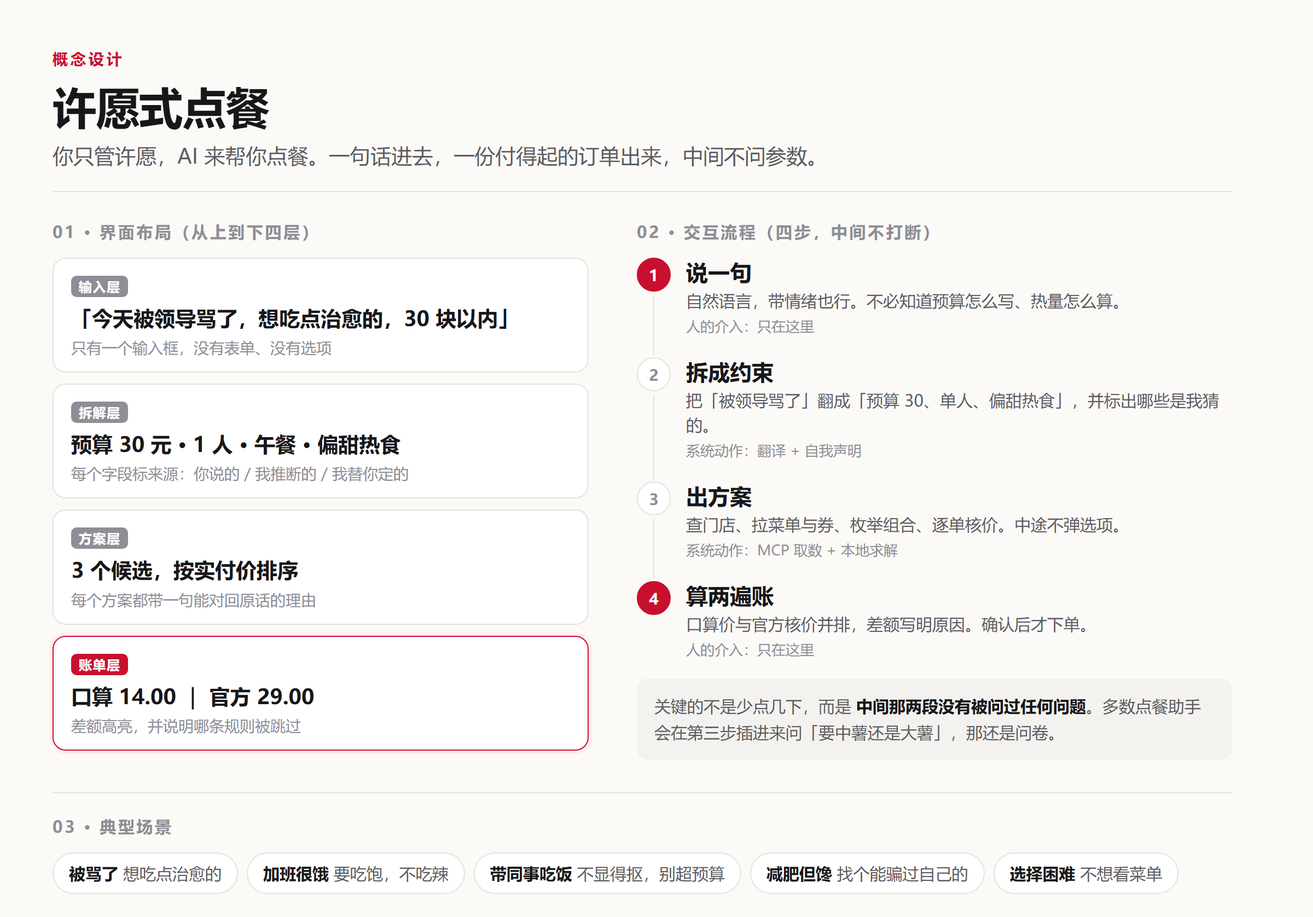
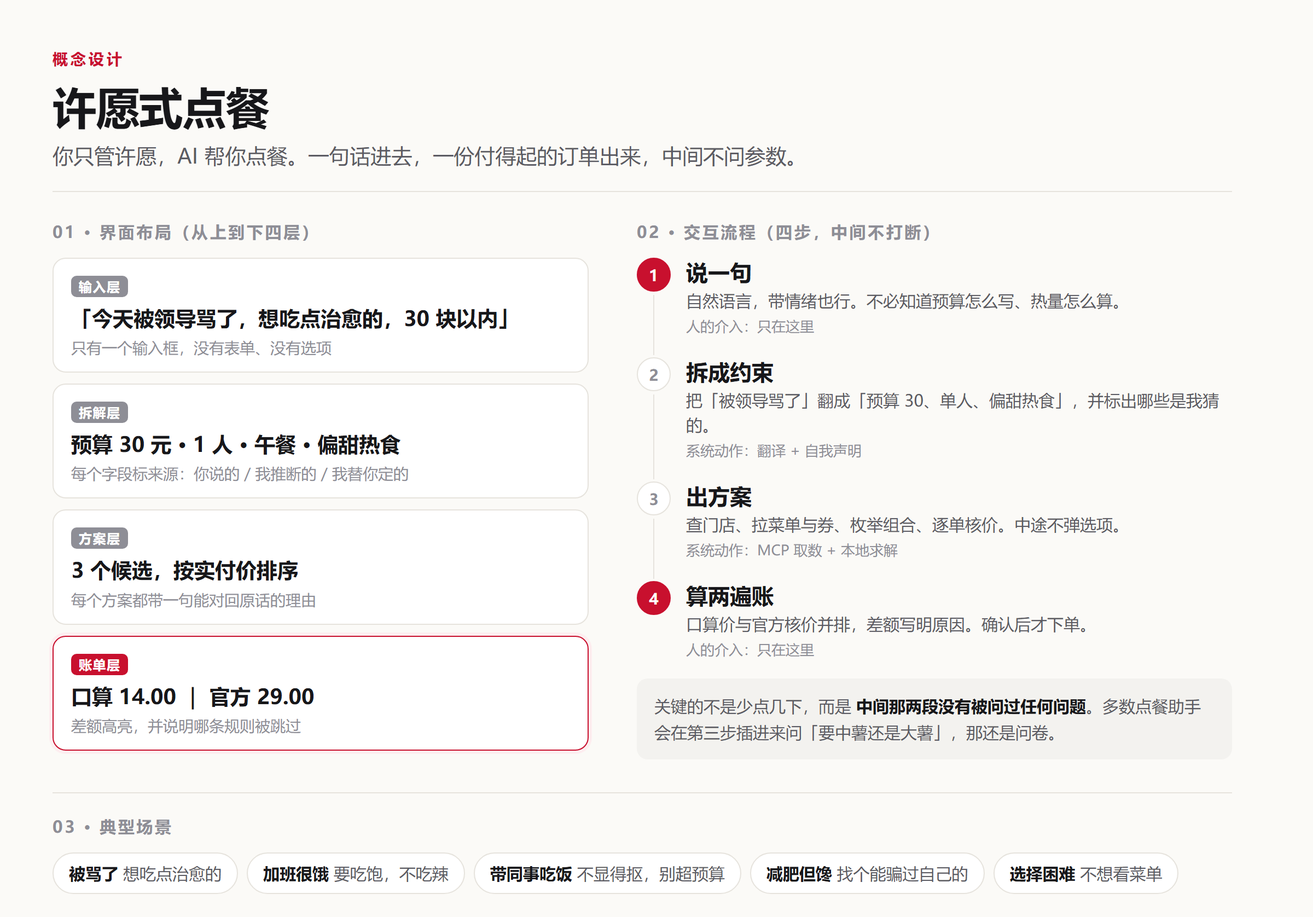
docs: 理念定稿为「你只管许愿，AI 帮你点餐」
三处文案按用户原话调整：
- 主命题去掉「来」：你只管许愿，AI 帮你点餐
- 副句改为利益视角：不用看活动、不用看菜单，预算、套餐、优惠券全部搞定，你只管享受美味
- 第三句从技术表述（账算两遍）换成用户收益：不花一分冤枉钱，
  钱是怎么花的、怎么省的，一目了然

注：用户原文「不用看活动，看菜单」缺一个「不用」，按并列语义补为
「不用看活动、不用看菜单」。

技术表述（账算两遍、差额公开）保留在表格差异化行与三层结构里，
作为「一目了然」的实现手段，不与理念冲突。

Changed region(s): [[0.1562, 0.1551, 0.625, 0.1862]]

diff --git a/docs/index.html b/docs/index.html
@@ -133,12 +133,12 @@
 <div class="wrap">
   <header>
     <div class="kicker">许愿式点餐</div>
-    <h1>你只管许愿，AI 来帮你点餐</h1>
-    <p class="sub">说一句就够：预算、套餐、优惠券全部搞定，不用填预算表，不用在两张券之间做算术。</p>
+    <h1>你只管许愿，AI 帮你点餐</h1>
+    <p class="sub">说一句就够：不用看活动、不用看菜单，预算、套餐、优惠券全部搞定，你只管享受美味。</p>
   </header>
 
   <div class="thesis">
-    钱怎么算的也不藏：每一单算两遍，一遍是模型式的口算，一遍是官方核价。差额直接摆出来。
+    <b>不花一分冤枉钱。</b>钱是怎么花的、怎么省的，一目了然。
   </div>
 
   <div class="switcher" id="switcher"></div>
@@ -182,7 +182,7 @@
 </div>
 
 <script>
-const DATA = {"cases": [{"wish": {"raw": "今天被领导骂了一顿，想吃点能治愈的，别超过30块", "budget": 30.0, "people": 1, "meal_slot": "lunch", "moods": ["治愈"], "taste": ["sweet", "warm", "comfort"], "avoid": [], "undecided": false, "source": {"people": "default", "budget": "explicit", "meal_slot": "inferred"}, "notes": []}, "candidates": [{"name": "麦香鸡 + 派", "items": ["麦香鸡", "派"], "codes": ["1450", "9900008752"], "unit_count": 1, "score": 7.03, "reasons": ["命中偏好：sweet"], "price": {"naive": {"label": "AI 式口算", "subtotal": 29.0, "delivery_fee": 0.0, "discount": 15.0, "payable": 14.0, "applied": ["满 70 减 15"], "rejected": [], "notes": ["选了面额最大的「满 70 减 15」，但这单只有 29.00 元，差 41.00 元没到门槛", "另外 4 张券没有参与比较（互斥规则被跳过）"]}, "official": {"label": "官方口径", "subtotal": 29.0, "delivery_fee": 0.0, "discount": 0.0, "payable": 29.0, "applied": [], "rejected": ["满 30 减 6：未达门槛 30 元（当前 29.00 元）", "满 50 减 12：未达门槛 50 元（当前 29.00 元）", "满 70 减 15：未达门槛 70 元（当前 29.00 元）", "小食第二份半价：需同类别两件（小食），当前只有 1 件", "早餐满 15 减 5：仅早餐时段可用，当前是午餐", "甜品第二份 1 元：需同类别两件（甜品），当前只有 0 件", "满 40 减 8（外送专享）：仅外送可用，当前是到店"], "notes": []}, "unit_price": {"naive": 14.0, "official": 29.0}, "units": 1, "gap": 15.0, "gap_pct": 51.7, "verdict": "口算低估了实付金额"}, "payable": 29.0}, {"name": "麦香鸡 + 雪碧", "items": ["麦香鸡", "雪碧"], "codes": ["1450", "3060"], "unit_count": 1, "score": 4.77, "reasons": [], "price": {"naive": {"label": "AI 式口算", "subtotal": 31.0, "delivery_fee": 0.0, "discount": 15.0, "payable": 16.0, "applied": ["满 70 减 15"], "rejected": [], "notes": ["选了面额最大的「满 70 减 15」，但这单只有 31.00 元，差 39.00 元没到门槛", "另外 4 张券没有参与比较（互斥规则被跳过）"]}, "official": {"label": "官方口径", "subtotal": 31.0, "delivery_fee": 0.0, "discount": 6.0, "payable": 25.0, "applied": ["满 30 减 6"], "rejected": ["满 50 减 12：未达门槛 50 元（当前 31.00 元）", "满 70 减 15：未达门槛 70 元（当前 31.00 元）", "小食第二份半价：需同类别两件（小食），当前只有 0 件", "早餐满 15 减 5：仅早餐时段可用，当前是午餐", "甜品第二份 1 元：需同类别两件（甜品），当前只有 0 件", "满 40 减 8（外送专享）：仅外送可用，当前是到店"], "notes": ["按互斥规则只用一张：满 30 减 6（整单金额需达到 30 元）"]}, "unit_price": {"naive": 16.0, "official": 25.0}, "units": 1, "gap": 9.0, "gap_pct": 36.0, "verdict": "口算低估了实付金额"}, "payable": 25.0}, {"name": "麦香鸡 + 阳光柠檬红茶", "items": ["麦香鸡", "阳光柠檬红茶"], "codes": ["1450", "515281"], "unit_count": 1, "score": 4.77, "reasons": [], "price": {"naive": {"label": "AI 式口算", "subtotal": 31.0, "delivery_fee": 0.0, "discount": 15.0, "payable": 16.0, "applied": ["满 70 减 15"], "rejected": [], "notes": ["选了面额最大的「满 70 减 15」，但这单只有 31.00 元，差 39.00 元没到门槛", "另外 4 张券没有参与比较（互斥规则被跳过）"]}, "official": {"label": "官方口径", "subtotal": 31.0, "delivery_fee": 0.0, "discount": 6.0, "payable": 25.0, "applied": ["满 30 减 6"], "rejected": ["满 50 减 12：未达门槛 50 元（当前 31.00 元）", "满 70 减 15：未达门槛 70 元（当前 31.00 元）", "小食第二份半价：需同类别两件（小食），当前只有 0 件", "早餐满 15 减 5：仅早餐时段可用，当前是午餐", "甜品第二份 1 元：需同类别两件（甜品），当前只有 0 件", "满 40 减 8（外送专享）：仅外送可用，当前是到店"], "notes": ["按互斥规则只用一张：满 30 减 6（整单金额需达到 30 元）"]}, "unit_price": {"naive": 16.0, "official": 25.0}, "units": 1, "gap": 9.0, "gap_pct": 36.0, "verdict": "口算低估了实付金额"}, "payable": 25.0}]}, {"wish": {"raw": "周末家里四个人吃饭，随便，人均50以内", "budget": 200.0, "people": 4, "meal_slot": "lunch", "moods": [], "taste": [], "avoid": [], "undecided": true, "source": {"people": "explicit", "budget": "explicit", "meal_slot": "inferred"}, "notes": ["按人均 50 元 × 4 人 = 200 元", "听到「随便」了。不反问你，直接按大众口味给方案；哪一份不想要，说一声换掉就行"]}, "candidates": [{"name": "4 人分工：麦香鱼套餐 / 麦乐鸡套餐 / 双层吉士汉堡套餐 / 麦辣鸡腿汉堡三件套", "items": ["麦香鱼套餐", "麦乐鸡套餐", "双层吉士汉堡套餐", "麦辣鸡腿汉堡三件套"], "codes": ["9900005460", "9900004835", "9900005464", "9900005456"], "unit_count": 4, "score": 0, "reasons": ["4 种不同，覆盖 2 个品类，每人一份不同的"], "price": {"naive": {"label": "AI 式口算", "subtotal": 190.0, "delivery_fee": 0.0, "discount": 15.0, "payable": 175.0, "applied": ["满 70 减 15"], "rejected": [], "notes": ["另外 4 张券没有参与比较（互斥规则被跳过）"]}, "official": {"label": "官方口径", "subtotal": 190.0, "delivery_fee": 0.0, "discount": 15.0, "payable": 175.0, "applied": ["满 70 减 15"], "rejected": ["小食第二份半价：需同类别两件（小食），当前只有 1 件", "早餐满 15 减 5：仅早餐时段可用，当前是午餐", "甜品第二份 1 元：需同类别两件（甜品），当前只有 0 件", "满 40 减 8（外送专享）：仅外送可用，当前是到店"], "notes": ["按互斥规则只用一张：满 70 减 15（多人场景常见档位）"]}, "unit_price": {"naive": 175.0, "official": 175.0}, "units": 1, "gap": 0.0, "gap_pct": 0.0, "verdict": "两种算法一致"}, "payable": 175.0}]}, {"wish": {"raw": "明天要带三个同事吃饭，我不想显得抠，也不想超预算", "budget": 220.0, "people": 4, "meal_slot": "lunch", "moods": ["抠", "同事"], "taste": ["share", "variety", "large"], "avoid": [], "undecided": false, "source": {"people": "explicit", "meal_slot": "inferred", "budget": "default"}, "notes": ["你说带 三 个，按「你 + 他们」共 4 人算", "「不想显得抠」按「要体面、份量要够」理解", "你没说什么时候吃，按当前时间推的", "你没给金额，按每人 55 元 × 4 人 = 220 元先定，可以改"]}, "candidates": [{"name": "4 人分工：麦辣鸡翅4块套餐 / 不素之霸双层牛堡三件套 / 精选单人餐三件套 / 巨无霸三件套", "items": ["麦辣鸡翅4块套餐", "不素之霸双层牛堡三件套", "精选单人餐三件套", "巨无霸三件套"], "codes": ["9900005451", "9900005411", "9900004064", "9900005466"], "unit_count": 4, "score": 0, "reasons": ["4 种不同，覆盖 3 个品类，每人一份不同的"], "price": {"naive": {"label": "AI 式口算", "subtotal": 217.0, "delivery_fee": 0.0, "discount": 15.0, "payable": 202.0, "applied": ["满 70 减 15"], "rejected": [], "notes": ["另外 4 张券没有参与比较（互斥规则被跳过）"]}, "official": {"label": "官方口径", "subtotal": 217.0, "delivery_fee": 0.0, "discount": 15.0, "payable": 202.0, "applied": ["满 70 减 15"], "rejected": ["小食第二份半价：需同类别两件（小食），当前只有 1 件", "早餐满 15 减 5：仅早餐时段可用，当前是午餐", "甜品第二份 1 元：需同类别两件（甜品），当前只有 0 件", "满 40 减 8（外送专享）：仅外送可用，当前是到店"], "notes": ["按互斥规则只用一张：满 70 减 15（多人场景常见档位）"]}, "unit_price": {"naive": 202.0, "official": 202.0}, "units": 1, "gap": 0.0, "gap_pct": 0.0, "verdict": "两种算法一致"}, "payable": 202.0}]}, {"wish": {"raw": "减肥第三周，馋得不行，给我找个能骗过自己的", "budget": 55.0, "people": 1, "meal_slot": "lunch", "moods": ["减肥"], "taste": ["light", "lowcal"], "avoid": [], "undecided": false, "source": {"people": "default", "meal_slot": "inferred", "budget": "default"}, "notes": ["你没说什么时候吃，按当前时间推的", "你没给金额，按每人 55 元 × 1 人 = 55 元先定，可以改"]}, "candidates": [{"name": "不素之霸双层牛堡 + 燕麦奶铁", "items": ["不素之霸双层牛堡", "燕麦奶铁"], "codes": ["4648", "510479"], "unit_count": 1, "score": 13.53, "reasons": ["命中偏好：light、lowcal", "带了低卡项"], "price": {"naive": {"label": "AI 式口算", "subtotal": 56.5, "delivery_fee": 0.0, "discount": 15.0, "payable": 41.5, "applied": ["满 70 减 15"], "rejected": [], "notes": ["选了面额最大的「满 70 减 15」，但这单只有 56.50 元，差 13.50 元没到门槛", "另外 4 张券没有参与比较（互斥规则被跳过）"]}, "official": {"label": "官方口径", "subtotal": 56.5, "delivery_fee": 0.0, "discount": 12.0, "payable": 44.5, "applied": ["满 50 减 12"], "rejected": ["满 70 减 15：未达门槛 70 元（当前 56.50 元）", "小食第二份半价：需同类别两件（小食），当前只有 0 件", "早餐满 15 减 5：仅早餐时段可用，当前是午餐", "甜品第二份 1 元：需同类别两件（甜品），当前只有 0 件", "满 40 减 8（外送专享）：仅外送可用，当前是到店"], "notes": ["按互斥规则只用一张：满 50 减 12（整单金额需达到 50 元）"]}, "unit_price": {"naive": 41.5, "official": 44.5}, "units": 1, "gap": 3.0, "gap_pct": 6.7, "verdict": "口算低估了实付金额"}, "payable": 44.5}, {"name": "巨无霸 + 燕麦奶铁", "items": ["巨无霸", "燕麦奶铁"], "codes": ["1100", "510479"], "unit_count": 1, "score": 13.44, "reasons": ["命中偏好：light、lowcal", "带了低卡项"], "price": {"naive": {"label": "AI 式口算", "subtotal": 56.0, "delivery_fee": 0.0, "discount": 15.0, "payable": 41.0, "applied": ["满 70 减 15"], "rejected": [], "notes": ["选了面额最大的「满 70 减 15」，但这单只有 56.00 元，差 14.00 元没到门槛", "另外 4 张券没有参与比较（互斥规则被跳过）"]}, "official": {"label": "官方口径", "subtotal": 56.0, "delivery_fee": 0.0, "discount": 12.0, "payable": 44.0, "applied": ["满 50 减 12"], "rejected": ["满 70 减 15：未达门槛 70 元（当前 56.00 元）", "小食第二份半价：需同类别两件（小食），当前只有 0 件", "早餐满 15 减 5：仅早餐时段可用，当前是午餐", "甜品第二份 1 元：需同类别两件（甜品），当前只有 0 件", "满 40 减 8（外送专享）：仅外送可用，当前是到店"], "notes": ["按互斥规则只用一张：满 50 减 12（整单金额需达到 50 元）"]}, "unit_price": {"naive": 41.0, "official": 44.0}, "units": 1, "gap": 3.0, "gap_pct": 6.8, "verdict": "口算低估了实付金额"}, "payable": 44.0}, {"name": "双层吉士汉堡 + 麦咖啡™美式", "items": ["双层吉士汉堡", "麦咖啡™美式"], "codes": ["1120", "507411"], "unit_count": 1, "score": 13.35, "reasons": ["命中偏好：light、lowcal", "带了低卡项"], "price": {"naive": {"label": "AI 式口算", "subtotal": 49.5, "delivery_fee": 0.0, "discount": 15.0, "payable": 34.5, "applied": ["满 70 减 15"], "rejected": [], "notes": ["选了面额最大的「满 70 减 15」，但这单只有 49.50 元，差 20.50 元没到门槛", "另外 4 张券没有参与比较（互斥规则被跳过）"]}, "official": {"label": "官方口径", "subtotal": 49.5, "delivery_fee": 0.0, "discount": 6.0, "payable": 43.5, "applied": ["满 30 减 6"], "rejected": ["满 50 减 12：未达门槛 50 元（当前 49.50 元）", "满 70 减 15：未达门槛 70 元（当前 49.50 元）", "小食第二份半价：需同类别两件（小食），当前只有 0 件", "早餐满 15 减 5：仅早餐时段可用，当前是午餐", "甜品第二份 1 元：需同类别两件（甜品），当前只有 0 件", "满 40 减 8（外送专享）：仅外送可用，当前是到店"], "notes": ["按互斥规则只用一张：满 30 减 6（整单金额需达到 30 元）"]}, "unit_price": {"naive": 34.5, "official": 43.5}, "units": 1, "gap": 9.0, "gap_pct": 20.7, "verdict": "口算低估了实付金额"}, "payable": 43.5}]}, {"wish": {"raw": "加班到现在，很饿，想吃饱一点，不吃辣", "budget": 55.0, "people": 1, "meal_slot": "lunch", "moods": ["加班", "很饿", "饱"], "taste": ["filling", "staple", "large"], "avoid": ["spicy"], "undecided": false, "source": {"people": "default", "meal_slot": "inferred", "budget": "default"}, "notes": ["你没说什么时候吃，按当前时间推的", "你没给金额，按每人 55 元 × 1 人 = 55 元先定，可以改"]}, "candidates": [{"name": "不素之霸双层牛堡 + 麦麦脆汁鸡1块 + 【美汁源】“黄金橙橙”", "items": ["不素之霸双层牛堡", "麦麦脆汁鸡1块", "【美汁源】“黄金橙橙”"], "codes": ["4648", "9900005432", "2430"], "unit_count": 1, "score": 8.21, "reasons": ["命中偏好：staple"], "price": {"naive": {"label": "AI 式口算", "subtotal": 60.5, "delivery_fee": 0.0, "discount": 15.0, "payable": 45.5, "applied": ["满 70 减 15"], "rejected": [], "notes": ["选了面额最大的「满 70 减 15」，但这单只有 60.50 元，差 9.50 元没到门槛", "另外 4 张券没有参与比较（互斥规则被跳过）"]}, "official": {"label": "官方口径", "subtotal": 60.5, "delivery_fee": 0.0, "discount": 12.0, "payable": 48.5, "applied": ["满 50 减 12"], "rejected": ["满 70 减 15：未达门槛 70 元（当前 60.50 元）", "小食第二份半价：需同类别两件（小食），当前只有 1 件", "早餐满 15 减 5：仅早餐时段可用，当前是午餐", "甜品第二份 1 元：需同类别两件（甜品），当前只有 0 件", "满 40 减 8（外送专享）：仅外送可用，当前是到店"], "notes": ["按互斥规则只用一张：满 50 减 12（整单金额需达到 50 元）"]}, "unit_price": {"naive": 45.5, "official": 48.5}, "units": 1, "gap": 3.0, "gap_pct": 6.2, "verdict": "口算低估了实付金额"}, "payable": 48.5}, {"name": "双层深海鳕鱼堡 + 派 + 牛奶", "items": ["双层深海鳕鱼堡", "派", "牛奶"], "codes": ["9900003586", "9900008752", "507394"], "unit_count": 1, "score": 8.21, "reasons": ["命中偏好：staple"], "price": {"naive": {"label": "AI 式口算", "subtotal": 60.5, "delivery_fee": 0.0, "discount": 15.0, "payable": 45.5, "applied": ["满 70 减 15"], "rejected": [], "notes": ["选了面额最大的「满 70 减 15」，但这单只有 60.50 元，差 9.50 元没到门槛", "另外 4 张券没有参与比较（互斥规则被跳过）"]}, "official": {"label": "官方口径", "subtotal": 60.5, "delivery_fee": 0.0, "discount": 12.0, "payable": 48.5, "applied": ["满 50 减 12"], "rejected": ["满 70 减 15：未达门槛 70 元（当前 60.50 元）", "小食第二份半价：需同类别两件（小食），当前只有 1 件", "早餐满 15 减 5：仅早餐时段可用，当前是午餐", "甜品第二份 1 元：需同类别两件（甜品），当前只有 0 件", "满 40 减 8（外送专享）：仅外送可用，当前是到店"], "notes": ["按互斥规则只用一张：满 50 减 12（整单金额需达到 50 元）"]}, "unit_price": {"naive": 45.5, "official": 48.5}, "units": 1, "gap": 3.0, "gap_pct": 6.2, "verdict": "口算低估了实付金额"}, "payable": 48.5}, {"name": "双层深海鳕鱼堡 + 派 + 麦咖啡™美式", "items": ["双层深海鳕鱼堡", "派", "麦咖啡™美式"], "codes": ["9900003586", "9900008752", "507411"], "unit_count": 1, "score": 8.21, "reasons": ["命中偏好：staple"], "price": {"naive": {"label": "AI 式口算", "subtotal": 60.5, "delivery_fee": 0.0, "discount": 15.0, "payable": 45.5, "applied": ["满 70 减 15"], "rejected": [], "notes": ["选了面额最大的「满 70 减 15」，但这单只有 60.50 元，差 9.50 元没到门槛", "另外 4 张券没有参与比较（互斥规则被跳过）"]}, "official": {"label": "官方口径", "subtotal": 60.5, "delivery_fee": 0.0, "discount": 12.0, "payable": 48.5, "applied": ["满 50 减 12"], "rejected": ["满 70 减 15：未达门槛 70 元（当前 60.50 元）", "小食第二份半价：需同类别两件（小食），当前只有 1 件", "早餐满 15 减 5：仅早餐时段可用，当前是午餐", "甜品第二份 1 元：需同类别两件（甜品），当前只有 0 件", "满 40 减 8（外送专享）：仅外送可用，当前是到店"], "notes": ["按互斥规则只用一张：满 50 减 12（整单金额需达到 50 元）"]}, "unit_price": {"naive": 45.5, "official": 48.5}, "units": 1, "gap": 3.0, "gap_pct": 6.2, "verdict": "口算低估了实付金额"}, "payable": 48.5}]}], "source_note": "菜单与价格来自麦当劳 MCP 的 query-meals 真实返回（2026-10-21 11:02 抓取，门店 麦当劳北京西客站南候车室餐厅）；券为示例数据，因测试账号券包为空。价格以麦当劳官方渠道实时结果为准。", "generated_at": "2026-10-21 15:16"};
+const DATA = {"cases": [{"wish": {"raw": "今天被领导骂了一顿，想吃点能治愈的，别超过30块", "budget": 30.0, "people": 1, "meal_slot": "lunch", "moods": ["治愈"], "taste": ["sweet", "warm", "comfort"], "avoid": [], "undecided": false, "source": {"people": "default", "budget": "explicit", "meal_slot": "inferred"}, "notes": []}, "candidates": [{"name": "麦香鸡 + 派", "items": ["麦香鸡", "派"], "codes": ["1450", "9900008752"], "unit_count": 1, "score": 7.03, "reasons": ["命中偏好：sweet"], "price": {"naive": {"label": "AI 式口算", "subtotal": 29.0, "delivery_fee": 0.0, "discount": 15.0, "payable": 14.0, "applied": ["满 70 减 15"], "rejected": [], "notes": ["选了面额最大的「满 70 减 15」，但这单只有 29.00 元，差 41.00 元没到门槛", "另外 4 张券没有参与比较（互斥规则被跳过）"]}, "official": {"label": "官方口径", "subtotal": 29.0, "delivery_fee": 0.0, "discount": 0.0, "payable": 29.0, "applied": [], "rejected": ["满 30 减 6：未达门槛 30 元（当前 29.00 元）", "满 50 减 12：未达门槛 50 元（当前 29.00 元）", "满 70 减 15：未达门槛 70 元（当前 29.00 元）", "小食第二份半价：需同类别两件（小食），当前只有 1 件", "早餐满 15 减 5：仅早餐时段可用，当前是午餐", "甜品第二份 1 元：需同类别两件（甜品），当前只有 0 件", "满 40 减 8（外送专享）：仅外送可用，当前是到店"], "notes": []}, "unit_price": {"naive": 14.0, "official": 29.0}, "units": 1, "gap": 15.0, "gap_pct": 51.7, "verdict": "口算低估了实付金额"}, "payable": 29.0}, {"name": "麦香鸡 + 雪碧", "items": ["麦香鸡", "雪碧"], "codes": ["1450", "3060"], "unit_count": 1, "score": 4.77, "reasons": [], "price": {"naive": {"label": "AI 式口算", "subtotal": 31.0, "delivery_fee": 0.0, "discount": 15.0, "payable": 16.0, "applied": ["满 70 减 15"], "rejected": [], "notes": ["选了面额最大的「满 70 减 15」，但这单只有 31.00 元，差 39.00 元没到门槛", "另外 4 张券没有参与比较（互斥规则被跳过）"]}, "official": {"label": "官方口径", "subtotal": 31.0, "delivery_fee": 0.0, "discount": 6.0, "payable": 25.0, "applied": ["满 30 减 6"], "rejected": ["满 50 减 12：未达门槛 50 元（当前 31.00 元）", "满 70 减 15：未达门槛 70 元（当前 31.00 元）", "小食第二份半价：需同类别两件（小食），当前只有 0 件", "早餐满 15 减 5：仅早餐时段可用，当前是午餐", "甜品第二份 1 元：需同类别两件（甜品），当前只有 0 件", "满 40 减 8（外送专享）：仅外送可用，当前是到店"], "notes": ["按互斥规则只用一张：满 30 减 6（整单金额需达到 30 元）"]}, "unit_price": {"naive": 16.0, "official": 25.0}, "units": 1, "gap": 9.0, "gap_pct": 36.0, "verdict": "口算低估了实付金额"}, "payable": 25.0}, {"name": "麦香鸡 + 阳光柠檬红茶", "items": ["麦香鸡", "阳光柠檬红茶"], "codes": ["1450", "515281"], "unit_count": 1, "score": 4.77, "reasons": [], "price": {"naive": {"label": "AI 式口算", "subtotal": 31.0, "delivery_fee": 0.0, "discount": 15.0, "payable": 16.0, "applied": ["满 70 减 15"], "rejected": [], "notes": ["选了面额最大的「满 70 减 15」，但这单只有 31.00 元，差 39.00 元没到门槛", "另外 4 张券没有参与比较（互斥规则被跳过）"]}, "official": {"label": "官方口径", "subtotal": 31.0, "delivery_fee": 0.0, "discount": 6.0, "payable": 25.0, "applied": ["满 30 减 6"], "rejected": ["满 50 减 12：未达门槛 50 元（当前 31.00 元）", "满 70 减 15：未达门槛 70 元（当前 31.00 元）", "小食第二份半价：需同类别两件（小食），当前只有 0 件", "早餐满 15 减 5：仅早餐时段可用，当前是午餐", "甜品第二份 1 元：需同类别两件（甜品），当前只有 0 件", "满 40 减 8（外送专享）：仅外送可用，当前是到店"], "notes": ["按互斥规则只用一张：满 30 减 6（整单金额需达到 30 元）"]}, "unit_price": {"naive": 16.0, "official": 25.0}, "units": 1, "gap": 9.0, "gap_pct": 36.0, "verdict": "口算低估了实付金额"}, "payable": 25.0}]}, {"wish": {"raw": "周末家里四个人吃饭，随便，人均50以内", "budget": 200.0, "people": 4, "meal_slot": "lunch", "moods": [], "taste": [], "avoid": [], "undecided": true, "source": {"people": "explicit", "budget": "explicit", "meal_slot": "inferred"}, "notes": ["按人均 50 元 × 4 人 = 200 元", "听到「随便」了。不反问你，直接按大众口味给方案；哪一份不想要，说一声换掉就行"]}, "candidates": [{"name": "4 人分工：麦香鱼套餐 / 麦乐鸡套餐 / 双层吉士汉堡套餐 / 麦辣鸡腿汉堡三件套", "items": ["麦香鱼套餐", "麦乐鸡套餐", "双层吉士汉堡套餐", "麦辣鸡腿汉堡三件套"], "codes": ["9900005460", "9900004835", "9900005464", "9900005456"], "unit_count": 4, "score": 0, "reasons": ["4 种不同，覆盖 2 个品类，每人一份不同的"], "price": {"naive": {"label": "AI 式口算", "subtotal": 190.0, "delivery_fee": 0.0, "discount": 15.0, "payable": 175.0, "applied": ["满 70 减 15"], "rejected": [], "notes": ["另外 4 张券没有参与比较（互斥规则被跳过）"]}, "official": {"label": "官方口径", "subtotal": 190.0, "delivery_fee": 0.0, "discount": 15.0, "payable": 175.0, "applied": ["满 70 减 15"], "rejected": ["小食第二份半价：需同类别两件（小食），当前只有 1 件", "早餐满 15 减 5：仅早餐时段可用，当前是午餐", "甜品第二份 1 元：需同类别两件（甜品），当前只有 0 件", "满 40 减 8（外送专享）：仅外送可用，当前是到店"], "notes": ["按互斥规则只用一张：满 70 减 15（多人场景常见档位）"]}, "unit_price": {"naive": 175.0, "official": 175.0}, "units": 1, "gap": 0.0, "gap_pct": 0.0, "verdict": "两种算法一致"}, "payable": 175.0}]}, {"wish": {"raw": "明天要带三个同事吃饭，我不想显得抠，也不想超预算", "budget": 220.0, "people": 4, "meal_slot": "lunch", "moods": ["抠", "同事"], "taste": ["share", "variety", "large"], "avoid": [], "undecided": false, "source": {"people": "explicit", "meal_slot": "inferred", "budget": "default"}, "notes": ["你说带 三 个，按「你 + 他们」共 4 人算", "「不想显得抠」按「要体面、份量要够」理解", "你没说什么时候吃，按当前时间推的", "你没给金额，按每人 55 元 × 4 人 = 220 元先定，可以改"]}, "candidates": [{"name": "4 人分工：麦辣鸡翅4块套餐 / 不素之霸双层牛堡三件套 / 精选单人餐三件套 / 巨无霸三件套", "items": ["麦辣鸡翅4块套餐", "不素之霸双层牛堡三件套", "精选单人餐三件套", "巨无霸三件套"], "codes": ["9900005451", "9900005411", "9900004064", "9900005466"], "unit_count": 4, "score": 0, "reasons": ["4 种不同，覆盖 3 个品类，每人一份不同的"], "price": {"naive": {"label": "AI 式口算", "subtotal": 217.0, "delivery_fee": 0.0, "discount": 15.0, "payable": 202.0, "applied": ["满 70 减 15"], "rejected": [], "notes": ["另外 4 张券没有参与比较（互斥规则被跳过）"]}, "official": {"label": "官方口径", "subtotal": 217.0, "delivery_fee": 0.0, "discount": 15.0, "payable": 202.0, "applied": ["满 70 减 15"], "rejected": ["小食第二份半价：需同类别两件（小食），当前只有 1 件", "早餐满 15 减 5：仅早餐时段可用，当前是午餐", "甜品第二份 1 元：需同类别两件（甜品），当前只有 0 件", "满 40 减 8（外送专享）：仅外送可用，当前是到店"], "notes": ["按互斥规则只用一张：满 70 减 15（多人场景常见档位）"]}, "unit_price": {"naive": 202.0, "official": 202.0}, "units": 1, "gap": 0.0, "gap_pct": 0.0, "verdict": "两种算法一致"}, "payable": 202.0}]}, {"wish": {"raw": "减肥第三周，馋得不行，给我找个能骗过自己的", "budget": 55.0, "people": 1, "meal_slot": "lunch", "moods": ["减肥"], "taste": ["light", "lowcal"], "avoid": [], "undecided": false, "source": {"people": "default", "meal_slot": "inferred", "budget": "default"}, "notes": ["你没说什么时候吃，按当前时间推的", "你没给金额，按每人 55 元 × 1 人 = 55 元先定，可以改"]}, "candidates": [{"name": "不素之霸双层牛堡 + 燕麦奶铁", "items": ["不素之霸双层牛堡", "燕麦奶铁"], "codes": ["4648", "510479"], "unit_count": 1, "score": 13.53, "reasons": ["命中偏好：light、lowcal", "带了低卡项"], "price": {"naive": {"label": "AI 式口算", "subtotal": 56.5, "delivery_fee": 0.0, "discount": 15.0, "payable": 41.5, "applied": ["满 70 减 15"], "rejected": [], "notes": ["选了面额最大的「满 70 减 15」，但这单只有 56.50 元，差 13.50 元没到门槛", "另外 4 张券没有参与比较（互斥规则被跳过）"]}, "official": {"label": "官方口径", "subtotal": 56.5, "delivery_fee": 0.0, "discount": 12.0, "payable": 44.5, "applied": ["满 50 减 12"], "rejected": ["满 70 减 15：未达门槛 70 元（当前 56.50 元）", "小食第二份半价：需同类别两件（小食），当前只有 0 件", "早餐满 15 减 5：仅早餐时段可用，当前是午餐", "甜品第二份 1 元：需同类别两件（甜品），当前只有 0 件", "满 40 减 8（外送专享）：仅外送可用，当前是到店"], "notes": ["按互斥规则只用一张：满 50 减 12（整单金额需达到 50 元）"]}, "unit_price": {"naive": 41.5, "official": 44.5}, "units": 1, "gap": 3.0, "gap_pct": 6.7, "verdict": "口算低估了实付金额"}, "payable": 44.5}, {"name": "巨无霸 + 燕麦奶铁", "items": ["巨无霸", "燕麦奶铁"], "codes": ["1100", "510479"], "unit_count": 1, "score": 13.44, "reasons": ["命中偏好：light、lowcal", "带了低卡项"], "price": {"naive": {"label": "AI 式口算", "subtotal": 56.0, "delivery_fee": 0.0, "discount": 15.0, "payable": 41.0, "applied": ["满 70 减 15"], "rejected": [], "notes": ["选了面额最大的「满 70 减 15」，但这单只有 56.00 元，差 14.00 元没到门槛", "另外 4 张券没有参与比较（互斥规则被跳过）"]}, "official": {"label": "官方口径", "subtotal": 56.0, "delivery_fee": 0.0, "discount": 12.0, "payable": 44.0, "applied": ["满 50 减 12"], "rejected": ["满 70 减 15：未达门槛 70 元（当前 56.00 元）", "小食第二份半价：需同类别两件（小食），当前只有 0 件", "早餐满 15 减 5：仅早餐时段可用，当前是午餐", "甜品第二份 1 元：需同类别两件（甜品），当前只有 0 件", "满 40 减 8（外送专享）：仅外送可用，当前是到店"], "notes": ["按互斥规则只用一张：满 50 减 12（整单金额需达到 50 元）"]}, "unit_price": {"naive": 41.0, "official": 44.0}, "units": 1, "gap": 3.0, "gap_pct": 6.8, "verdict": "口算低估了实付金额"}, "payable": 44.0}, {"name": "双层吉士汉堡 + 麦咖啡™美式", "items": ["双层吉士汉堡", "麦咖啡™美式"], "codes": ["1120", "507411"], "unit_count": 1, "score": 13.35, "reasons": ["命中偏好：light、lowcal", "带了低卡项"], "price": {"naive": {"label": "AI 式口算", "subtotal": 49.5, "delivery_fee": 0.0, "discount": 15.0, "payable": 34.5, "applied": ["满 70 减 15"], "rejected": [], "notes": ["选了面额最大的「满 70 减 15」，但这单只有 49.50 元，差 20.50 元没到门槛", "另外 4 张券没有参与比较（互斥规则被跳过）"]}, "official": {"label": "官方口径", "subtotal": 49.5, "delivery_fee": 0.0, "discount": 6.0, "payable": 43.5, "applied": ["满 30 减 6"], "rejected": ["满 50 减 12：未达门槛 50 元（当前 49.50 元）", "满 70 减 15：未达门槛 70 元（当前 49.50 元）", "小食第二份半价：需同类别两件（小食），当前只有 0 件", "早餐满 15 减 5：仅早餐时段可用，当前是午餐", "甜品第二份 1 元：需同类别两件（甜品），当前只有 0 件", "满 40 减 8（外送专享）：仅外送可用，当前是到店"], "notes": ["按互斥规则只用一张：满 30 减 6（整单金额需达到 30 元）"]}, "unit_price": {"naive": 34.5, "official": 43.5}, "units": 1, "gap": 9.0, "gap_pct": 20.7, "verdict": "口算低估了实付金额"}, "payable": 43.5}]}, {"wish": {"raw": "加班到现在，很饿，想吃饱一点，不吃辣", "budget": 55.0, "people": 1, "meal_slot": "lunch", "moods": ["加班", "很饿", "饱"], "taste": ["filling", "staple", "large"], "avoid": ["spicy"], "undecided": false, "source": {"people": "default", "meal_slot": "inferred", "budget": "default"}, "notes": ["你没说什么时候吃，按当前时间推的", "你没给金额，按每人 55 元 × 1 人 = 55 元先定，可以改"]}, "candidates": [{"name": "不素之霸双层牛堡 + 麦麦脆汁鸡1块 + 【美汁源】“黄金橙橙”", "items": ["不素之霸双层牛堡", "麦麦脆汁鸡1块", "【美汁源】“黄金橙橙”"], "codes": ["4648", "9900005432", "2430"], "unit_count": 1, "score": 8.21, "reasons": ["命中偏好：staple"], "price": {"naive": {"label": "AI 式口算", "subtotal": 60.5, "delivery_fee": 0.0, "discount": 15.0, "payable": 45.5, "applied": ["满 70 减 15"], "rejected": [], "notes": ["选了面额最大的「满 70 减 15」，但这单只有 60.50 元，差 9.50 元没到门槛", "另外 4 张券没有参与比较（互斥规则被跳过）"]}, "official": {"label": "官方口径", "subtotal": 60.5, "delivery_fee": 0.0, "discount": 12.0, "payable": 48.5, "applied": ["满 50 减 12"], "rejected": ["满 70 减 15：未达门槛 70 元（当前 60.50 元）", "小食第二份半价：需同类别两件（小食），当前只有 1 件", "早餐满 15 减 5：仅早餐时段可用，当前是午餐", "甜品第二份 1 元：需同类别两件（甜品），当前只有 0 件", "满 40 减 8（外送专享）：仅外送可用，当前是到店"], "notes": ["按互斥规则只用一张：满 50 减 12（整单金额需达到 50 元）"]}, "unit_price": {"naive": 45.5, "official": 48.5}, "units": 1, "gap": 3.0, "gap_pct": 6.2, "verdict": "口算低估了实付金额"}, "payable": 48.5}, {"name": "双层深海鳕鱼堡 + 派 + 牛奶", "items": ["双层深海鳕鱼堡", "派", "牛奶"], "codes": ["9900003586", "9900008752", "507394"], "unit_count": 1, "score": 8.21, "reasons": ["命中偏好：staple"], "price": {"naive": {"label": "AI 式口算", "subtotal": 60.5, "delivery_fee": 0.0, "discount": 15.0, "payable": 45.5, "applied": ["满 70 减 15"], "rejected": [], "notes": ["选了面额最大的「满 70 减 15」，但这单只有 60.50 元，差 9.50 元没到门槛", "另外 4 张券没有参与比较（互斥规则被跳过）"]}, "official": {"label": "官方口径", "subtotal": 60.5, "delivery_fee": 0.0, "discount": 12.0, "payable": 48.5, "applied": ["满 50 减 12"], "rejected": ["满 70 减 15：未达门槛 70 元（当前 60.50 元）", "小食第二份半价：需同类别两件（小食），当前只有 1 件", "早餐满 15 减 5：仅早餐时段可用，当前是午餐", "甜品第二份 1 元：需同类别两件（甜品），当前只有 0 件", "满 40 减 8（外送专享）：仅外送可用，当前是到店"], "notes": ["按互斥规则只用一张：满 50 减 12（整单金额需达到 50 元）"]}, "unit_price": {"naive": 45.5, "official": 48.5}, "units": 1, "gap": 3.0, "gap_pct": 6.2, "verdict": "口算低估了实付金额"}, "payable": 48.5}, {"name": "双层深海鳕鱼堡 + 派 + 麦咖啡™美式", "items": ["双层深海鳕鱼堡", "派", "麦咖啡™美式"], "codes": ["9900003586", "9900008752", "507411"], "unit_count": 1, "score": 8.21, "reasons": ["命中偏好：staple"], "price": {"naive": {"label": "AI 式口算", "subtotal": 60.5, "delivery_fee": 0.0, "discount": 15.0, "payable": 45.5, "applied": ["满 70 减 15"], "rejected": [], "notes": ["选了面额最大的「满 70 减 15」，但这单只有 60.50 元，差 9.50 元没到门槛", "另外 4 张券没有参与比较（互斥规则被跳过）"]}, "official": {"label": "官方口径", "subtotal": 60.5, "delivery_fee": 0.0, "discount": 12.0, "payable": 48.5, "applied": ["满 50 减 12"], "rejected": ["满 70 减 15：未达门槛 70 元（当前 60.50 元）", "小食第二份半价：需同类别两件（小食），当前只有 1 件", "早餐满 15 减 5：仅早餐时段可用，当前是午餐", "甜品第二份 1 元：需同类别两件（甜品），当前只有 0 件", "满 40 减 8（外送专享）：仅外送可用，当前是到店"], "notes": ["按互斥规则只用一张：满 50 减 12（整单金额需达到 50 元）"]}, "unit_price": {"naive": 45.5, "official": 48.5}, "units": 1, "gap": 3.0, "gap_pct": 6.2, "verdict": "口算低估了实付金额"}, "payable": 48.5}]}], "source_note": "菜单与价格来自麦当劳 MCP 的 query-meals 真实返回（2026-10-21 11:02 抓取，门店 麦当劳北京西客站南候车室餐厅）；券为示例数据，因测试账号券包为空。价格以麦当劳官方渠道实时结果为准。", "generated_at": "2026-10-21 15:26"};
 const SLOT = {breakfast:"早餐", lunch:"午餐", dinner:"晚餐", latenight:"夜宵"};
 const SRC = {explicit:"你说的", inferred:"我推断的", default:"我替你定的"};
 const _h = parseInt((location.hash || "").replace("#c", ""), 10);

diff --git a/docs/concept-src.html b/docs/concept-src.html
@@ -77,7 +77,7 @@
   <header>
     <div class="kicker">概念设计</div>
     <h1>许愿式点餐</h1>
-    <p>你只管许愿，AI 来帮你点餐。一句话进去，一份付得起的订单出来，中间不问参数。</p>
+    <p>你只管许愿，AI 帮你点餐。一句话进去，一份付得起的订单出来，中间不问参数。</p>
   </header>
 
   <div class="body">

diff --git a/scripts/report.py b/scripts/report.py
@@ -144,12 +144,12 @@ TEMPLATE = """<!DOCTYPE html>
 <div class="wrap">
   <header>
     <div class="kicker">许愿式点餐</div>
-    <h1>你只管许愿，AI 来帮你点餐</h1>
-    <p class="sub">说一句就够：预算、套餐、优惠券全部搞定，不用填预算表，不用在两张券之间做算术。</p>
+    <h1>你只管许愿，AI 帮你点餐</h1>
+    <p class="sub">说一句就够：不用看活动、不用看菜单，预算、套餐、优惠券全部搞定，你只管享受美味。</p>
   </header>
 
   <div class="thesis">
-    钱怎么算的也不藏：每一单算两遍，一遍是模型式的口算，一遍是官方核价。差额直接摆出来。
+    <b>不花一分冤枉钱。</b>钱是怎么花的、怎么省的，一目了然。
   </div>
 
   <div class="switcher" id="switcher"></div>

diff --git a/README.md b/README.md
@@ -4,12 +4,14 @@
 
 # 许愿式点餐 · mcd-wish-order
 
-**你只管许愿，AI 来帮你点餐。**
+**你只管许愿，AI 帮你点餐。**
 
 > 你说一句「今天被领导骂了，想吃点治愈的，别超过 30 块」，
 > 它自己拆需求、拉菜单、比券、核价，交一份付得起的订单。中间不问你参数。
 
-说一句就够，剩下的交给它：预算、套餐、优惠券全部搞定。钱怎么算的也不藏，每一单算两遍，一遍是模型式的口算，一遍是官方核价，差额直接摆出来。
+说一句就够：不用看活动、不用看菜单，预算、套餐、优惠券全部搞定，你只管享受美味。
+
+不花一分冤枉钱。钱是怎么花的、怎么省的，一目了然。
 
 | | |
 |---|---|
@@ -78,9 +80,9 @@ AI 式口算           14.00 元   扣 15.00
 
 三条，按重要性排序：
 
-**一、你只管许愿，AI 来帮你点餐。**
+**一、你只管许愿，AI 帮你点餐。**
 
-用户说的是「今天被领导骂了，想吃点治愈的」，不是「预算 30、单人、午餐、偏好甜食」。预算怎么定、套餐怎么配、券怎么用，这三件事都是系统的活。用户只负责一件事：说出愿望。这是「许愿」两个字最直白的意思：你开口，剩下的交给它。
+用户说的是「今天被领导骂了，想吃点治愈的」，不是「预算 30、单人、午餐、偏好甜食」。活动怎么算、菜单怎么读、预算怎么定、套餐怎么配、券怎么用，这些全是系统的活。用户只负责一件事：说出愿望。这是「许愿」两个字最直白的意思：你开口，剩下的交给它。
 
 **二、不追问，但承认自己在猜。**
 

diff --git a/workbuddy.md b/workbuddy.md
@@ -20,7 +20,7 @@
 
 开发没有从「做一个点餐助手」开始，而是从一句命题开始：
 
-> 你只管许愿，AI 来帮你点餐。但「搞定」里最不能糊弄的一步，是算钱。
+> 你只管许愿，AI 帮你点餐。但「搞定」里最不能糊弄的一步，是算钱。
 
 这句定下来之后，功能的取舍就有了判据：凡是加强「许愿」和「算钱对照」的做，凡是偏离这条主线的砍掉。
 
